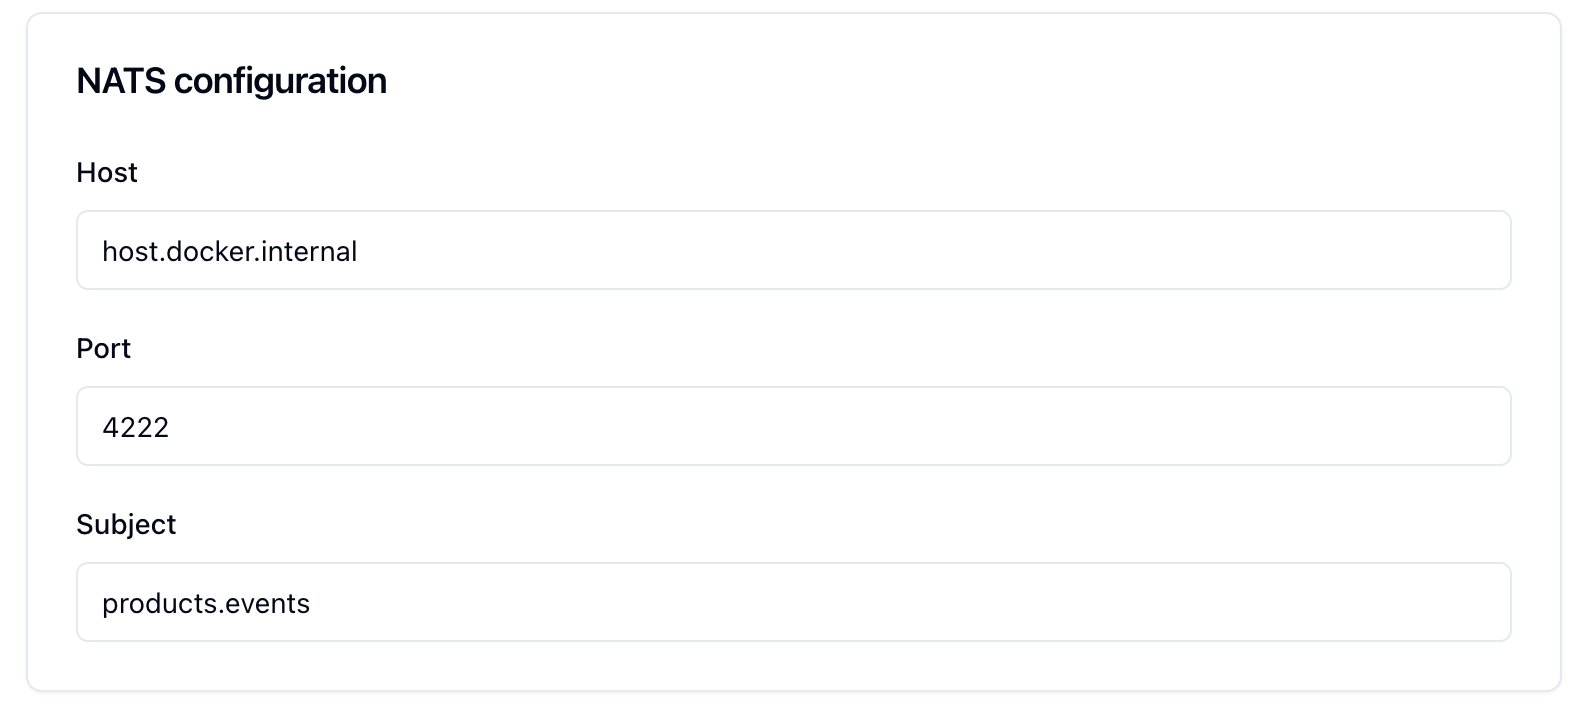
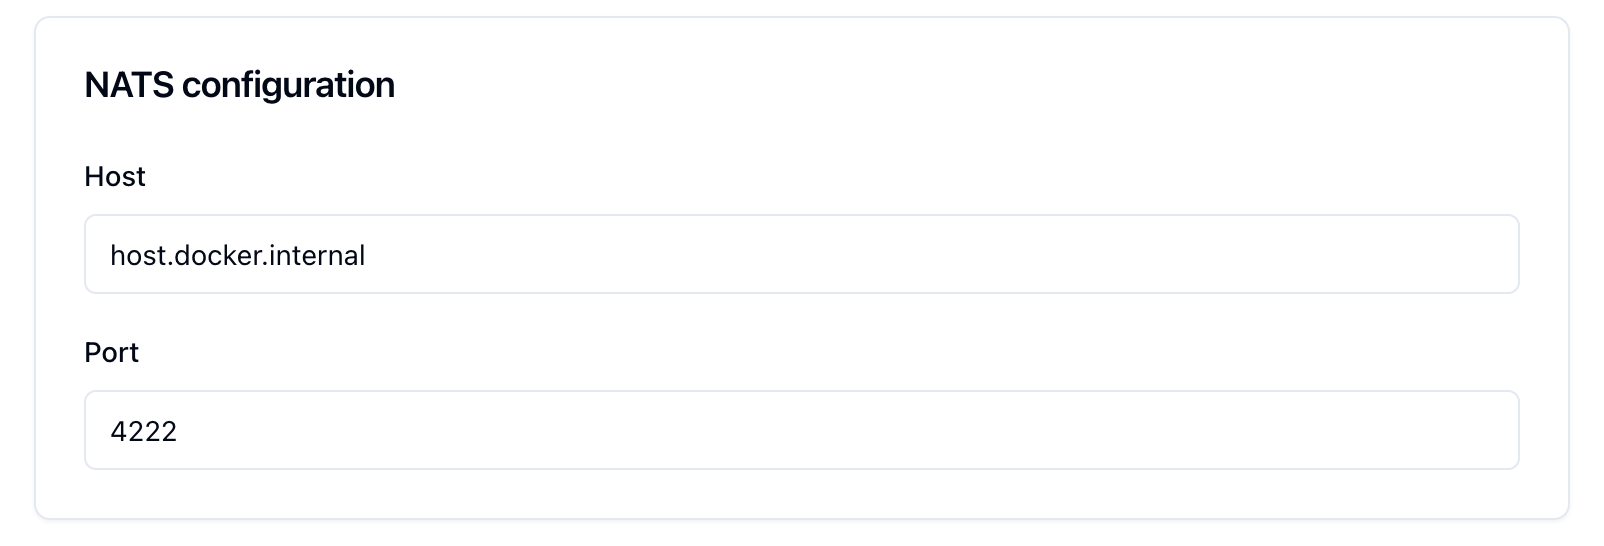
:sparkles: Use a rich subject pattern for NATS

diff --git a/assets/svelte/consumers/SinkNatsForm.svelte b/assets/svelte/consumers/SinkNatsForm.svelte
@@ -37,17 +37,5 @@
         <p class="text-destructive text-sm">{errors.sink.port}</p>
       {/if}
     </div>
-
-    <div class="space-y-2">
-      <Label for="subject">Subject</Label>
-      <Input
-        id="subject"
-        bind:value={form.sink.subject}
-        placeholder="my-stream"
-      />
-      {#if errors.sink?.subject}
-        <p class="text-destructive text-sm">{errors.sink.subject}</p>
-      {/if}
-    </div>
   </CardContent>
 </Card>

diff --git a/assets/svelte/components/SinkCardNats.svelte b/assets/svelte/components/SinkCardNats.svelte
@@ -31,16 +31,6 @@
           >
         </div>
       </div>
-
-      <div>
-        <span class="text-sm text-gray-500">Subject</span>
-        <div class="mt-2">
-          <span
-            class="font-mono bg-slate-50 pl-1 pr-4 py-1 border border-slate-100 rounded-md whitespace-nowrap"
-            >{consumer.sink.subject}</span
-          >
-        </div>
-      </div>
     </div>
   </CardContent>
 </Card>
